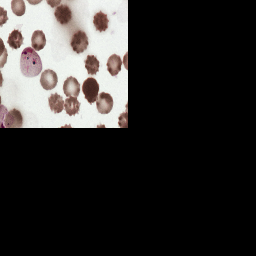
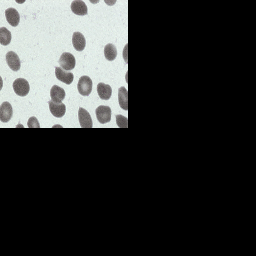
gaussian masked and blacked masked updated

Changed region(s): [[0.0, 0.0, 0.5, 0.5]]

diff --git a/shap_cal/shap_mikev4.py b/shap_cal/shap_mikev4.py
@@ -45,12 +45,12 @@ print(model)
 
 #%%
 image_path ='/Users/mikewang/Library/CloudStorage/OneDrive-JohnsHopkins/Study/Master/Semaster_1/EN.580.697/Interpretable-ML/output_shap/1f8f08ea-b5b3-4f68-94d4-3cc071b7dce8.png'
-resized_image_path ='/Users/mikewang/Library/CloudStorage/OneDrive-JohnsHopkins/Study/Master/Semaster_1/EN.580.697/Interpretable-ML/output_shap/original.png'
+# resized_image_path ='/Users/mikewang/Library/CloudStorage/OneDrive-JohnsHopkins/Study/Master/Semaster_1/EN.580.697/Interpretable-ML/output_shap/original.png'
 image_o = Image.open(image_path)
 newsize = (256, 256)
 newsize2 = (1600,1200)
 image = image_o.resize(newsize)
-image.save(resized_image_path)
+# image.save(resized_image_path)
 
 image_scale = image.resize(newsize2)
 
@@ -84,7 +84,7 @@ image_t = transform(image).to(device)
 prep_img = torch.unsqueeze(image_t, 0)
 prob_scores = model(prep_img).detach().numpy()
 print(prob_scores)
-cl_r, baseline_v = np.argmax(prob_scores), prob_scores[np.argmax(prob_scores)]
+cl_r, baseline_v = np.argmax(prob_scores[0]), prob_scores[0][np.argmax(prob_scores[0])]
 
 
 print("after resize 2")
@@ -97,22 +97,24 @@ if cl_r != cl:
     raise Exception("prediction wrong!")
 
 #%%
-directory = '/Users/mikewang/Library/CloudStorage/OneDrive-JohnsHopkins/Study/Master/Semaster_1/EN.580.697/Interpretable-ML/output_shap/small_size'
+directory = '/Users/mikewang/Library/CloudStorage/OneDrive-JohnsHopkins/Study/Master/Semaster_1/EN.580.697/Interpretable-ML/output_shap/Guassian_std_100_small'
+# directory = '/Users/mikewang/Library/CloudStorage/OneDrive-JohnsHopkins/Study/Master/Semaster_1/EN.580.697/Interpretable-ML/output_shap/black_masked_small'
+# directory = '/Users/mikewang/Library/CloudStorage/OneDrive-JohnsHopkins/Study/Master/Semaster_1/EN.580.697/Interpretable-ML/output_shap/small_size'
 #%%
-def ToCV2ImageShape(PytorchImage):
-    num_channels, num_row, num_col = PytorchImage.shape
-    CV2Image = np.ones((num_row, num_col,num_channels)).astype('uint8')
-    for i in range(num_channels):
-        CV2Image[:,:,i] = PytorchImage[i,:,:]
-    return CV2Image
+# def ToCV2ImageShape(PytorchImage):
+#     num_channels, num_row, num_col = PytorchImage.shape
+#     CV2Image = np.ones((num_row, num_col,num_channels)).astype('uint8')
+#     for i in range(num_channels):
+#         CV2Image[:,:,i] = PytorchImage[i,:,:]
+#     return CV2Image
 
     
-def ToPytorchImageShape(CV2Image):
-    num_row, num_col, num_channels = CV2Image.shape
-    PytorchImage = np.ones((num_channels, num_row, num_col)).astype('uint8')
-    for i in range(num_channels):
-        PytorchImage[i,:,:] = CV2Image[:,:,i] 
-    return PytorchImage
+# def ToPytorchImageShape(CV2Image):
+#     num_row, num_col, num_channels = CV2Image.shape
+#     PytorchImage = np.ones((num_channels, num_row, num_col)).astype('uint8')
+#     for i in range(num_channels):
+#         PytorchImage[i,:,:] = CV2Image[:,:,i] 
+#     return PytorchImage
 
 
 def exclude_k_matrics_calculation(k,directory, M):
@@ -193,15 +195,6 @@ def shap_main(k_list, directory, M):
 k_list = list(range(1,M+1))
 shap_value_list = shap_main(k_list,directory, M)
 
-
-
-
-#%% load image
-
-#%% generate combination index
-
-
-#%% mask generation method
 
 
 

diff --git a/masked_image_generator_mike_v1.py b/masked_image_generator_mike_v1.py
@@ -1,0 +1,74 @@
+#!/usr/bin/env python3
+# -*- coding: utf-8 -*-
+"""
+Created on Wed Feb 15 14:21:40 2023
+
+@author: mikewang
+"""
+from mask_generate import mask_generate
+from gaussian_mask_generate import gaussian_mask_generate
+from itertools import chain, combinations
+import numpy as np
+from PIL import Image
+import cv2 
+import matplotlib.pyplot as plt
+#%% define how to generate image quaderents 
+k = 1
+num_parts = 4
+# grey_area = [0]  ###block number
+image = cv2.imread('1f8f08ea-b5b3-4f68-94d4-3cc071b7dce8.png')
+
+def generate_combinations(num_parts):
+    list_parts = list(range(num_parts))
+    combination_list = []
+    for i in range(num_parts+1):
+        combination_list_curr = list(combinations(list_parts,i))
+        combination_list = combination_list + combination_list_curr
+    return combination_list
+
+def generate_masked_images(I,k, num_parts, save_dir, isSmall, mask_type, std=None):
+    grey_area_list_tuple = generate_combinations(num_parts)
+    grey_area_list = []
+    for i in range(len(grey_area_list_tuple)):
+        grey_area_list.append(list(grey_area_list_tuple[i]))
+    # print(grey_area_list)
+    for i in range(len(grey_area_list)):
+        print(list(grey_area_list[i]))
+        if mask_type == 0:
+            I_m = mask_generate(I, k, grey_area_list[i])
+        elif mask_type == 1:
+            I_m = gaussian_mask_generate(I,k,grey_area_list[i], ksize=(599, 799), std=std)
+        # plt.imshow(I_m)
+        print(I_m.shape)
+        if isSmall == False: 
+            if len(grey_area_list[i]) > 0:
+                for j in range(len(grey_area_list[i])):
+                    grey_area_list[i][j] = grey_area_list[i][j] + 1
+                myString = ''.join(map(str,grey_area_list[i]))
+                # print("/output_"+myString+".png")
+                I_m.save(save_dir+"/output_"+myString+".png")
+            else: 
+                I_m.save(save_dir+"/output_.png")
+        else: 
+            newsize = (256, 256)
+            I_m_copy = I_m.copy()
+            # plt.imshow(I_m_copy)
+            I_m_r = cv2.resize(I_m_copy,newsize)
+            I_m_r_image = Image.fromarray(I_m_r, "RGB")
+            if len(grey_area_list[i]) > 0:
+                for j in range(len(grey_area_list[i])):
+                    grey_area_list[i][j] = grey_area_list[i][j] + 1
+                myString = ''.join(map(str,grey_area_list[i]))
+                # print("/output_"+myString+".png")
+                I_m_r_image.save(save_dir+"/output_"+myString+".png")
+            else: 
+                I_m_r_image.save(save_dir+"/output_.png")
+    
+
+#%%
+# --------------------------- mask as pure black ----------------------------
+save_dir = "output_shap/Guassian_std_100_small"
+# save_dir = "output_shap/black_masked_small"
+generate_masked_images(image, k, num_parts, save_dir, True, 1, std=100)
+#%%
+temp = generate_combinations(4)

diff --git a/gaussian_mask_generate.py b/gaussian_mask_generate.py
@@ -25,7 +25,7 @@ if __name__ == "__main__":
     k=1     # 2^(2*k)
     grey_area = [1]  # block number
     I = cv2.imread('./a9159b11-ba49-4885-902e-00c8d5095b98.png')   # path
-    I_m = gaussian_mask_generate(I,k,grey_area, ksize=(55, 55), std=55)
+    I_m = gaussian_mask_generate(I,k,grey_area, ksize=(599, 799), std=10)
     plt.imshow(I_m)
     plt.show()
     cv2.imwrite("./a9159b11-ba49-4885-902e-00c8d5095b98_mask.png", I_m)
